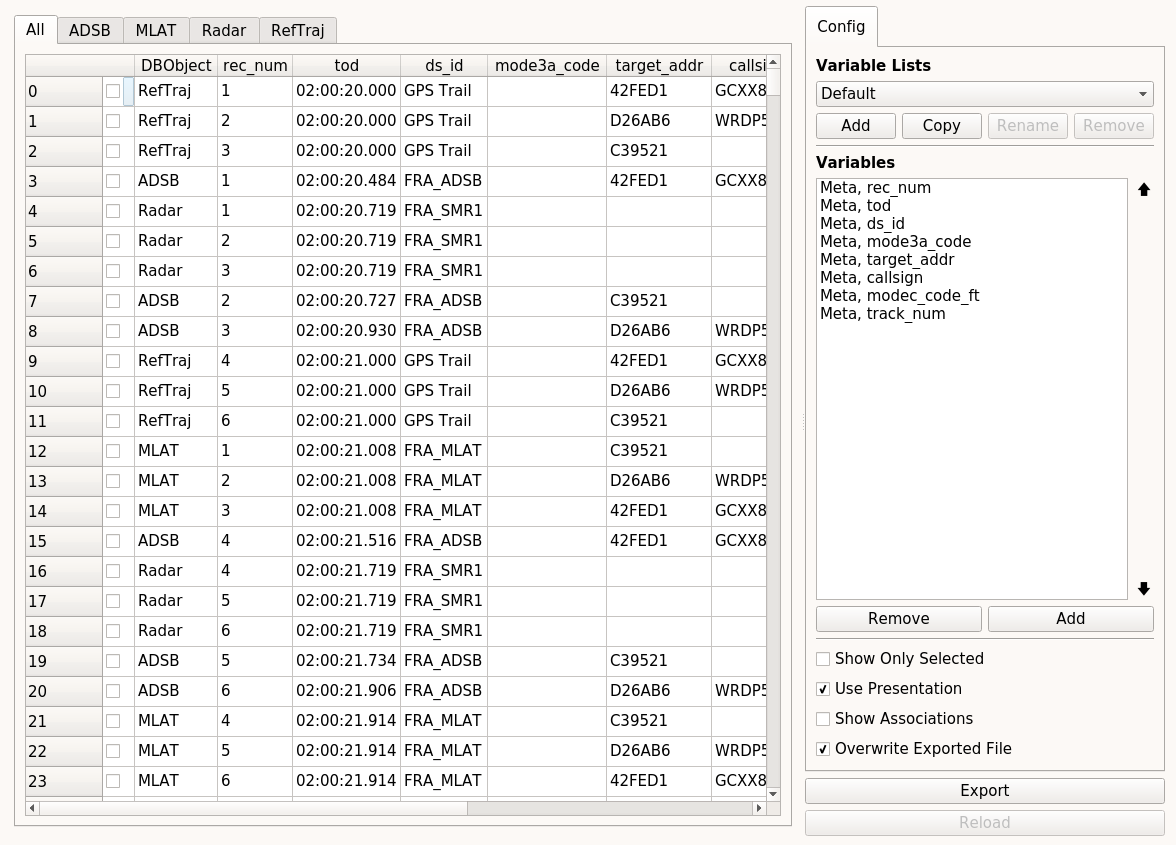
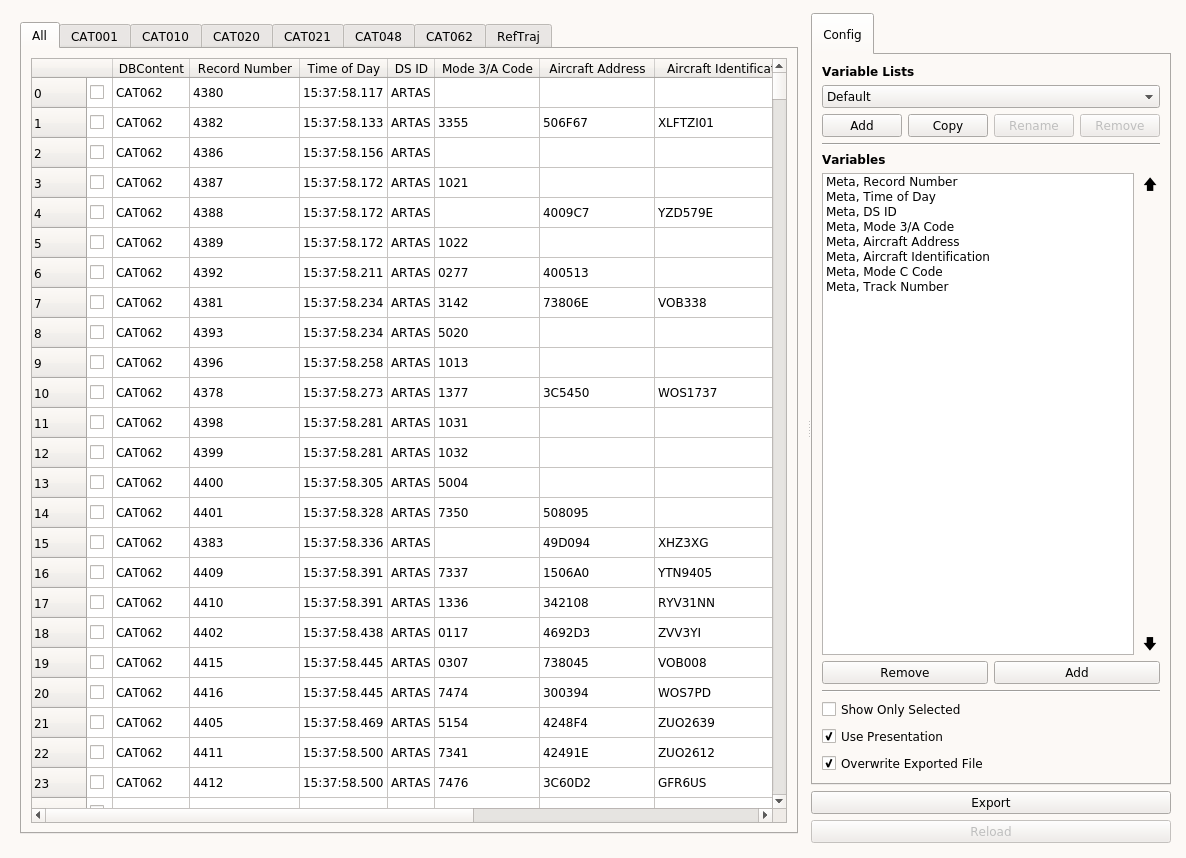
started to update listbox view chapter in manual, nearly finished

Changed region(s): [[0.0, 0.0, 1.0, 0.9846]]

diff --git a/doc/user_manual/listbox/view.tex b/doc/user_manual/listbox/view.tex
@@ -1,7 +1,7 @@
-\chapter{Listbox View}
+\chapter{ListBox View}
 \label{sec:listbox_view}
 
-A Listbox View displays the DBObject data as text in tables, to allow textual data inspection. When started, it presents itself in the following manner.
+A ListBox View displays DBContent data as text in tables to allow textual data inspection. When started, it presents itself in the following manner.
 
 \begin{figure}[H]
     \hspace*{-2cm}
@@ -12,10 +12,10 @@ A Listbox View displays the DBObject data as text in tables, to allow textual da
 
 \section{Layout}
 
+On the left side a number of tabs exist, one for each type of DBContent and an additional 'All' tab, each of which contains a table. \\
 
-On the left side, a number of tabs exist as 'All' and for each active DBO, each of which contains a table. \\
-
-On the right side, a configuration area exists which allows configuration of what data is loaded and how it is displayed. \\
+On the right side resides the configuration area, which allows configuring what data is loaded and how it is displayed.
+The 'Reload' button on the bottom can be used to trigger a reload of the view's data.\\
 
 Both areas can be resized and hidden if wanted.
 
@@ -29,37 +29,46 @@ To load the data the 'Reload' button or the mechanism described in Section \name
   \caption{Listbox View after loading}
 \end{figure}
 
-Once updated, the tables are filled with text representing the values of the DBObject variables.  If a value is undefined its cell is empy. For each DBO, a dedicated table is shown, as well as the 'All' table, where data from all DBOs are collectively shown. \\
+Once updated, the tables are filled with text representing the values of the chosen DBContent variables. 
+If a value is undefined its cell remains empy. For each type of DBContent a dedicated table is shown, as well as the 'All' table, where data from all DBContent types is shown collectively. \\
 
-Please \textbf{note} that since some variable might only exist in some DBObjects, the number of columns for different DBObjects may differ. \\
+Please \textbf{note} that since a specific variable might only exist in certain DBContents, the number of columns in the various tables might differ.
 
 \section{Usage}
 
 \subsection{Selection}
-In the first column in the tables, checkboxes are shown, indicating whether that target report is currently selected. Selection may be changed by selecting/de-selecting the respective checkboxes or in other views (cross-selection). If the selection is changed in one of the other views, this view is updated automatically.
+
+In the first column of each table checkboxes are shown, indicating whether that target report is currently selected. 
+Selection may be changed by selecting/de-selecting the respective checkboxes, or by altering the selection in other views (cross-selection). 
+If the selection is changed in one of the other views, this view is updated automatically.
 
 \subsection{Variable Lists}
 
-In the Config tab, a variable list preset can be selected. Custom variable lists can be added, copied and removed by the user. \\
+In the 'Variable Lists' section of the 'Config' tab, a variable list preset can be selected via a combo box. 
+Further, custom variable lists can be added, copied and removed by the user. \\
 
 The following presets exist:
 
+%TODO_V7 Finalize variable lists
 \begin{itemize}
 \item Default: Common variables. Can not be renamed or removed.
-\item Mode A/C Info: Includes the Mode A/C valid/garbled/smoothed flags.
-\item Track Lifetime: Include the track begin/confirmed/coasted/end flags.
-\item ADS-B Position Quality: Includes the ADS-B MOPS version, NACp/NUCp/NIC/SIL information.
-\item Vertical Movement: Includes barometric altitude modes and derivatives.
-\item Horizontal Movement: Includes hozizontal movement modes and derivatives.
+%\item Mode A/C Info: Includes the Mode A/C valid/garbled/smoothed flags.
+%\item Track Lifetime: Include the track begin/confirmed/coasted/end flags.
+%\item ADS-B Position Quality: Includes the ADS-B MOPS version, NACp/NUCp/NIC/SIL information.
+%\item Vertical Movement: Includes barometric altitude modes and derivatives.
+%\item Horizontal Movement: Includes hozizontal movement modes and derivatives.
 \end{itemize}
 \ \\
 
 \subsection{Variables}
-For the selected variable list, all DBO variables which are loaded from the database are shown in the 'Variables' list. This list is ordered, and like all configuration elements persistent. Ordering can be changed by selecting (clicking on) a variable and using the up/down buttons. \\
 
-When pressing the 'Remove' button, a selected variable is removed.  Pressing the 'Add' button allows appending a variable to the list using a context-menu. \\
+For the selected variable list, all DBContent variables which are loaded from the database are shown in the 'Variables' list. 
+This list is ordered, and like all configuration elements persistent. 
+Ordering in the list can be changed by selecting a certain variable and using the up/down buttons to move it in the respective direction. \\
 
-If Meta variables are used, they are display in all DObjects they exist. If DBObject variable is used, it is only displayed in it's native object.
+When pressing the 'Remove' button, a selected variable is removed. Pressing the 'Add' button allows appending a variable to the list using a context-menu. \\
+
+If Meta variables are used, they are displayed for all DBContents they exist in. If a DBContent variable is used, it is only displayed in its native content.
 
 \begin{figure}[H]
     \includegraphics[width=16cm,frame]{figures/listbox_add.png}
@@ -68,24 +77,28 @@ If Meta variables are used, they are display in all DObjects they exist. If DBOb
 
 After a adding a variable the dataset has to be reloaded to include the additional data, therefore the 'Reload' button becomes active.
 
-
 \subsection{Show Only Selected}
-When this checkbox is checked, only target reports selected in other views are shown. If this is active, de-selecting a target report removes it from the shown data.
+
+%TODO_V7 Here the focus was on 'only selected in other views', but this actually has also effect on manual selection in this view?
+When this checkbox is checked, only selected target reports are shown in the tables. In this mode, de-selecting a target report removes it from the shown data.
 
 \subsection{Use Presentation}
-When this checkbox is checked, the so called presentation mode is used. In the database, the variables might have different units or a data representation which is not easy to read. For this purpose, a presentation mode was introduced to e.g. show a Mode A code as octal, or a Time of Day not in seconds since midnight but in HH::MM:SS.SS format. \\
+
+When this checkbox is checked, the so called presentation mode is used. In the database, the variables might have different units or a data representations which is not easy to read. 
+For this purpose, a presentation mode was introduced to e.g. show a Mode A code as octal, or a Time of Day not in seconds since midnight but in HH:MM:SS.SS format. \\
 
 When the 'Use Presentation' checkbox is not checked, the original database values are presented (and exported).
 
-\subsection{Show Associations}
-When this checkbox is checked, the associated UTNs are shown for each target report. If no UTN is shown, this target reports was never associated to an UTN, if several are shown (e.g. '1,2,4') this target report was used in several UTNs. \\
-
-This checkbox can only be used if association information is present in the database.
+%TODO Now solved via a metavariable, maybe remove in the future
+%\subsection{Show Associations}
+%When this checkbox is checked, the associated UTNs are shown for each target report. If no UTN is shown, this target reports was never associated to an UTN, 
+%if several are shown (e.g. '1,2,4') this target report was used in several UTNs. \\
+%This checkbox can only be used if association information is present in the database.
 
 \subsection{Exporting}
 \label{sec:exporting}
 
-The data from the current DBO table can be exported to a comma-separated value (CSV) text, either as file or copied to the clipboard. \\
+The data from the current  table can be exported to a comma-separated value (CSV) text, either as file or copied to the clipboard. \\
 
 For this example a Mode 3/A code filter was used to load only target reports and system track updates from a single target. \\
 
